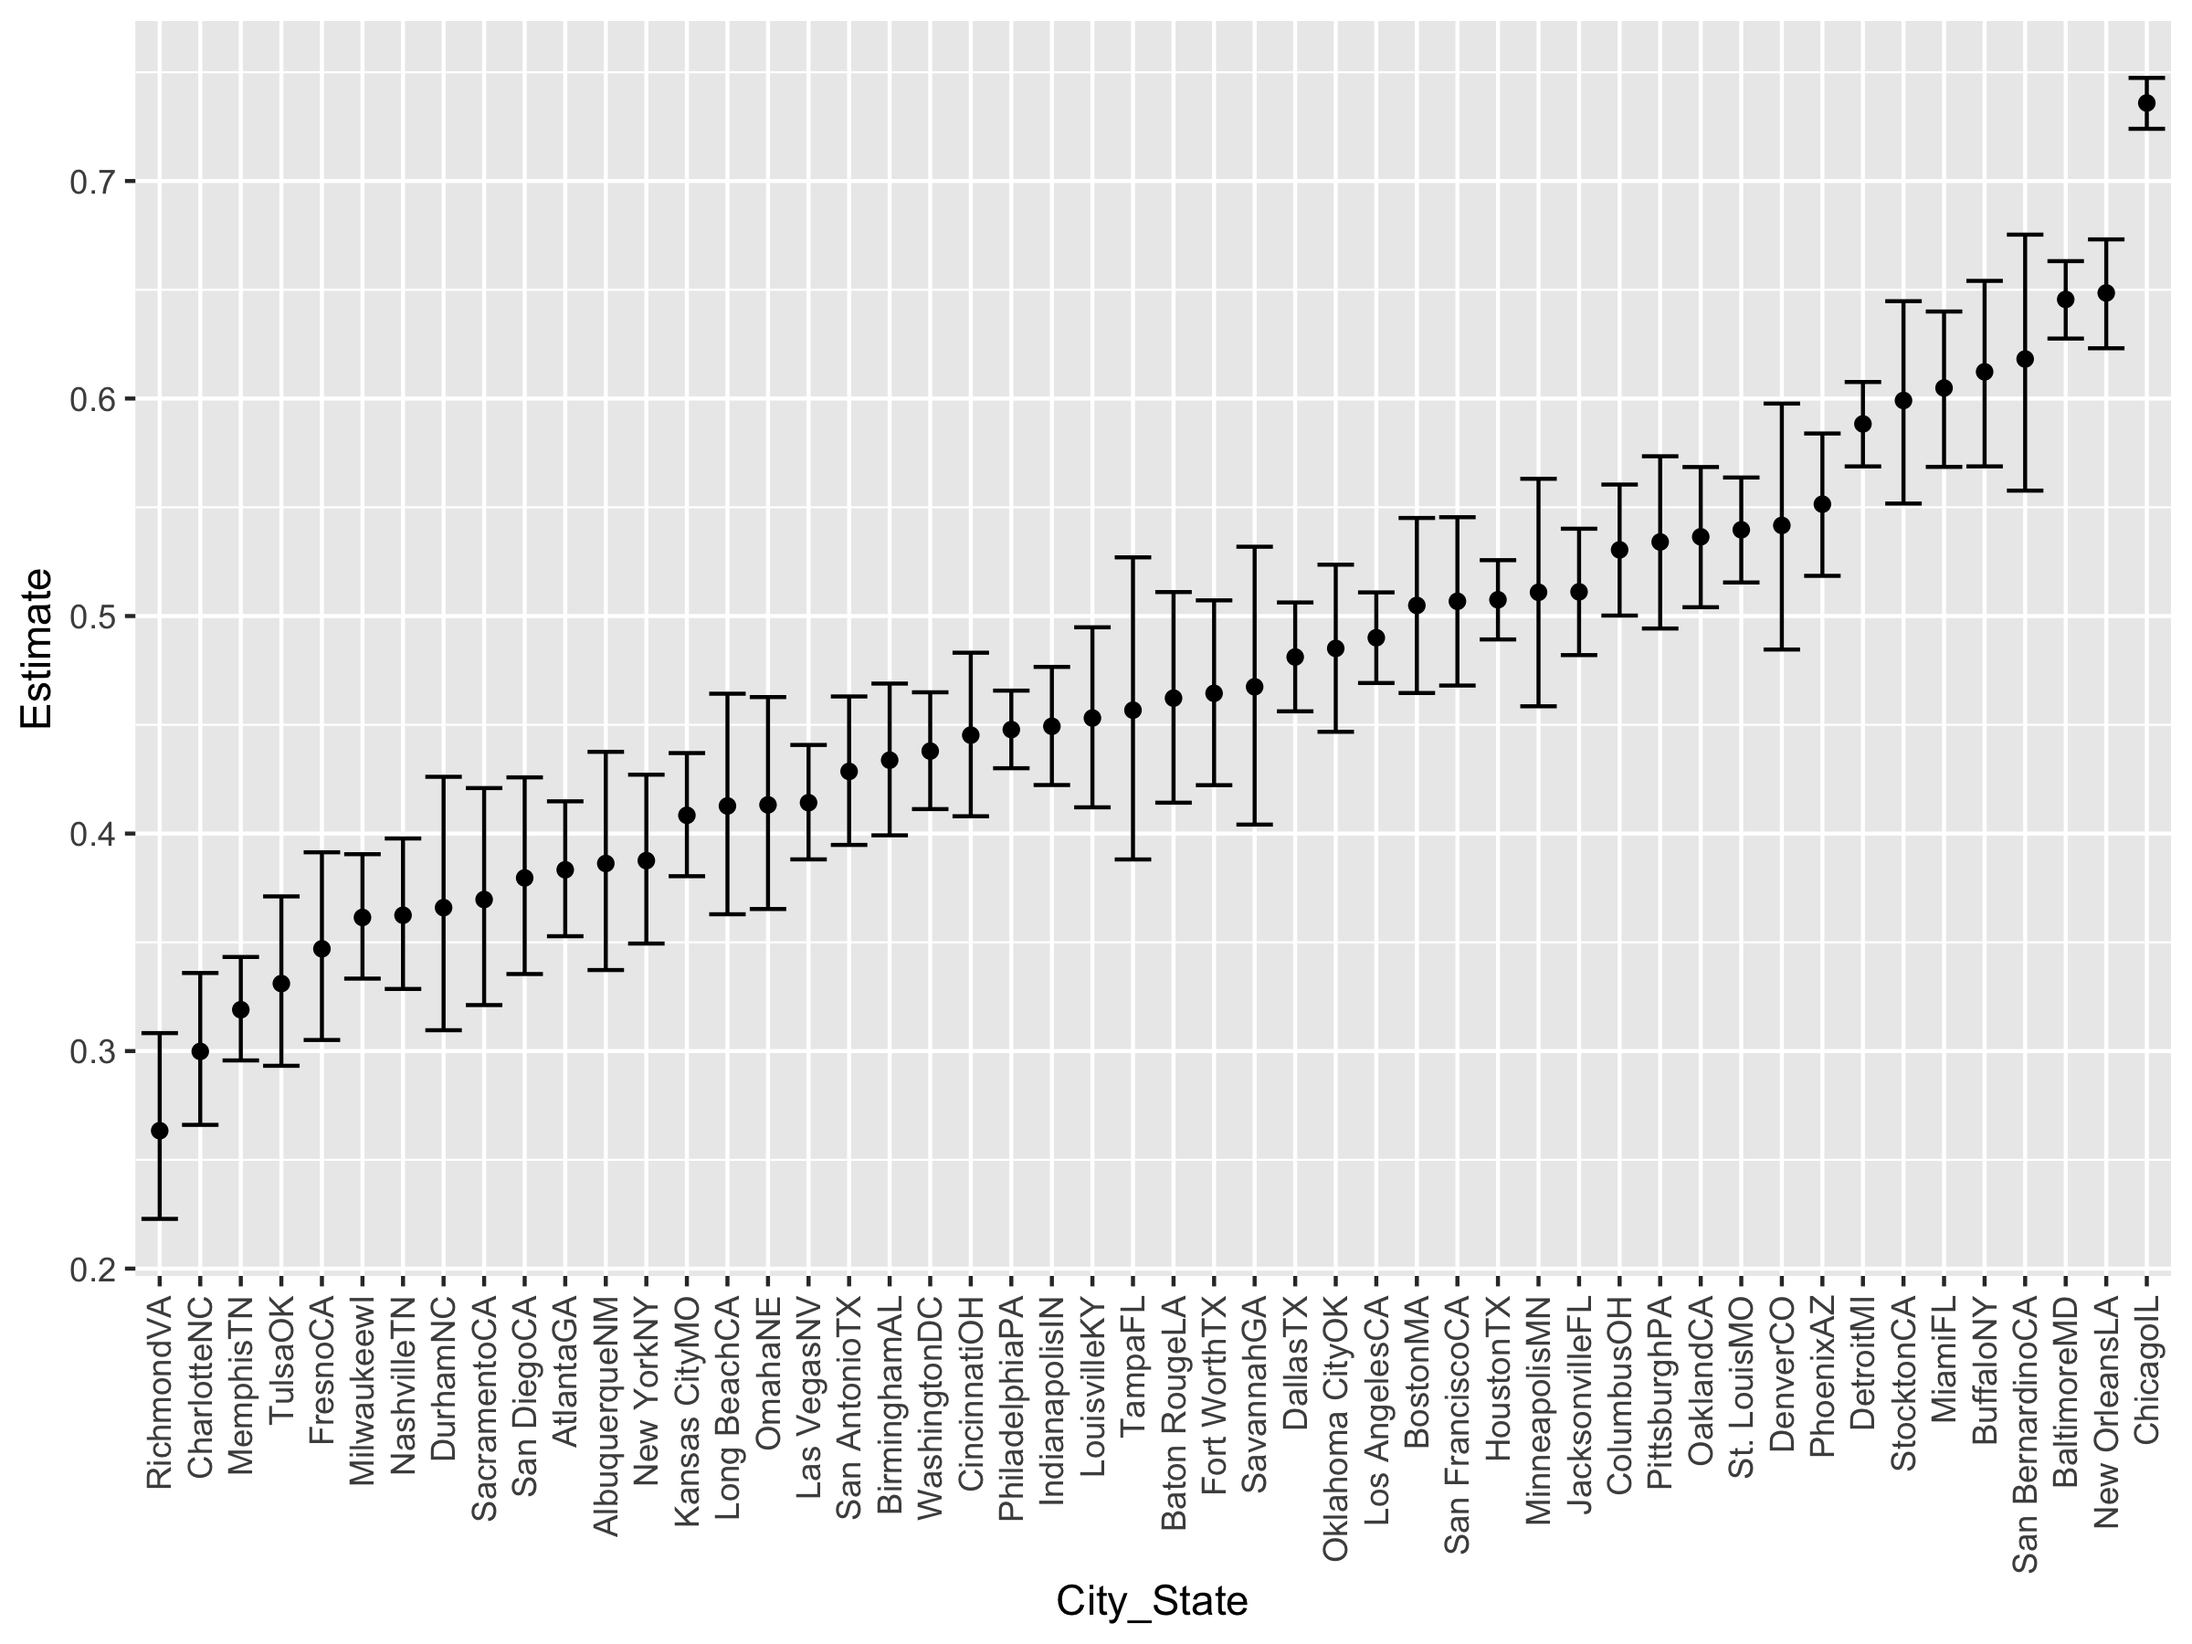
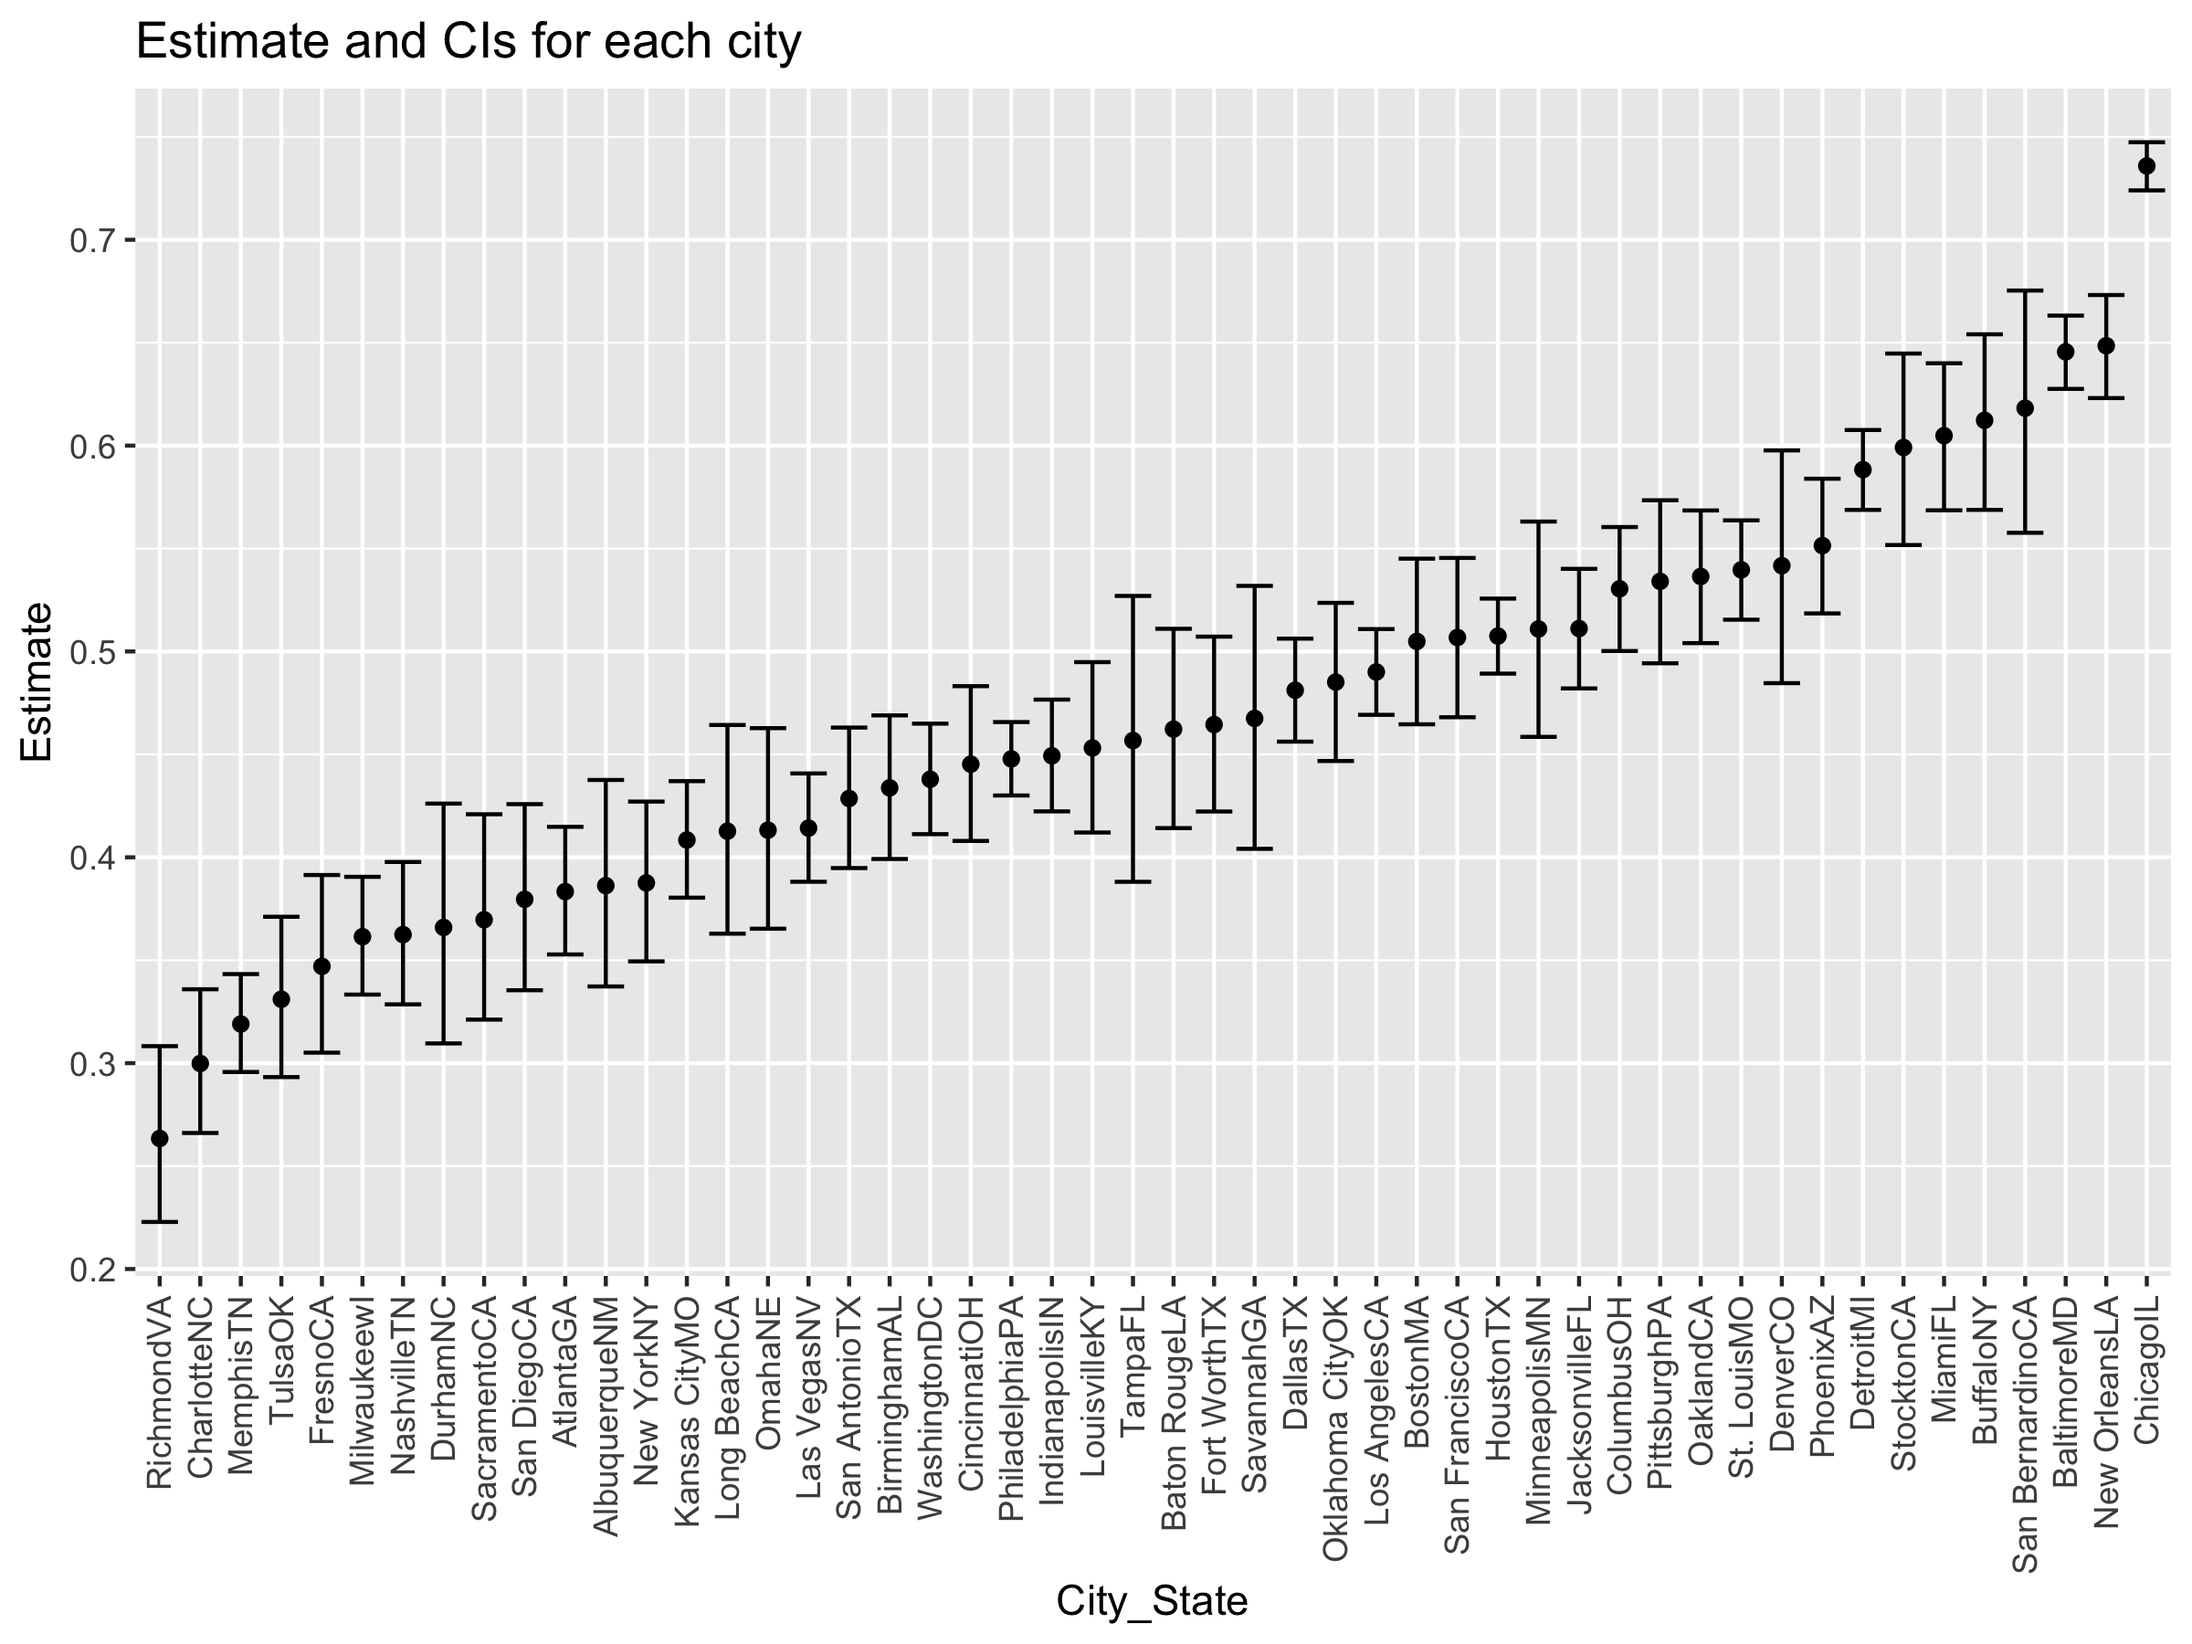
add title to plot

diff --git a/P8105_HW5_yz4181.md b/P8105_HW5_yz4181.md
@@ -204,7 +204,7 @@ homicide_df %>%
     ## # … with 40 more rows
 
 -   Summary: The table shows the estimate proportion of unsolved
-    homocides and confident interval within each city.
+    homicides and confident interval within each city.
 
 #### Creata a plot show the estimate and CI for each city
 
@@ -220,13 +220,16 @@ result_df %>%
   theme(axis.text.x = element_text(angle = 90, vjust =0.5, hjust = 1)) +
   labs(
     x = "City_State",
-    y = "Estimate"
+    y = "Estimate",
+    title = "Estimate and CIs for each city"
   )
 ```
 
 <img src="P8105_HW5_yz4181_files/figure-gfm/unnamed-chunk-5-1.png" width="80%" />
 
 ## Problem 2
+
+#### Create a tidy dataframe containing data from all participants, including the subject ID, arm, and observations over time
 
 ``` r
 ## Create a dataframe for all participants
@@ -265,8 +268,17 @@ all_participant_df = tibble(
     ## 10 con   02             2       -0.88
     ## # … with 150 more rows
 
+-   Using the `list.files` to read the file\_name and create a new
+    variable containing the path for each file. Using `map` function to
+    read all the results into a new variable containing a list of data.
+    Then `unnest` the list and tidy the result. The data frame contains
+    160 observation and 4 variables. The variables include arms,
+    subject\_id, week, and observation. The data record the observation
+    of each subject in controlled and experimental arms over 8 weeks.
+
+\#\#\#\#Create a dataframe for participants in controlled arm
+
 ``` r
-## Create a dataframe for participants in control arm
 con_df = all_participant_df %>% 
   filter(arm == "con") %>% 
   print()
@@ -287,20 +299,25 @@ con_df = all_participant_df %>%
     ## 10 con   02             2       -0.88
     ## # … with 70 more rows
 
+-   The data frame only include the observation for each subject in
+    controlled arm. There is 80 observation and 4 variables.
+
 ### Making spaghetti plot
 
 ``` r
 all_participant_df %>% 
   ggplot(aes(x = week, y = observation, color = arm, type = subject_id)) +
-    geom_line() +
-  theme(axis.text.x = element_text(angle = 90, vjust =0.5, hjust = 1))
+  geom_line() +
+  labs(
+    title = "Spaghetti Plot for observation of patients in controlled and experimental arm"
+  )
 ```
 
-<img src="P8105_HW5_yz4181_files/figure-gfm/unnamed-chunk-7-1.png" width="80%" />
+<img src="P8105_HW5_yz4181_files/figure-gfm/unnamed-chunk-8-1.png" width="80%" />
 \* Comments: Comparing two arms, we notice that the observation for all
-patients in experience arm are increasing over eight weeks. However, the
-observations for patients in control arm are relatively stable over the
-time.
+patients in experimental arm are increasing over eight weeks. However,
+the observations for patients in controlled arm are relatively stable
+over the time.
 
 ## Problem 3
 
@@ -341,3 +358,9 @@ iris = map_df(iris_with_missing, fill_in_function) %>%  print()
     ##  9         4.4          2.9         1.4         0.2  setosa 
     ## 10         4.9          3.1         3.77        0.1  setosa 
     ## # … with 140 more rows
+
+-   First, I write a function to fill in the missing value in the data
+    frame. Then using `map` to iterate each column in the data frame. If
+    variable is numeric, `NA` is replaced by the mean of non-missing
+    value. If the variable is character, missing value is replaced by
+    “Virginian”.
